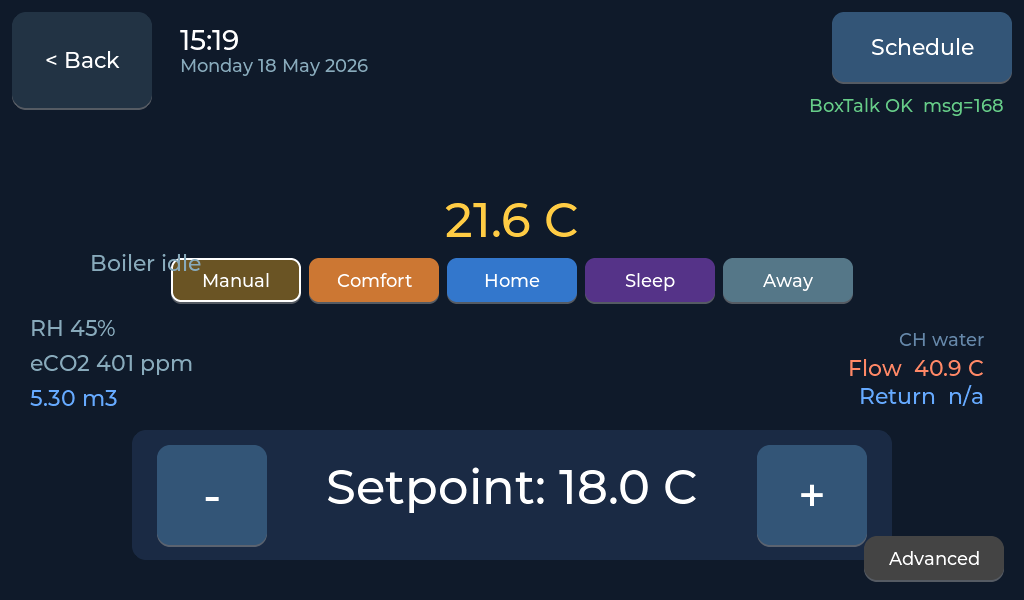
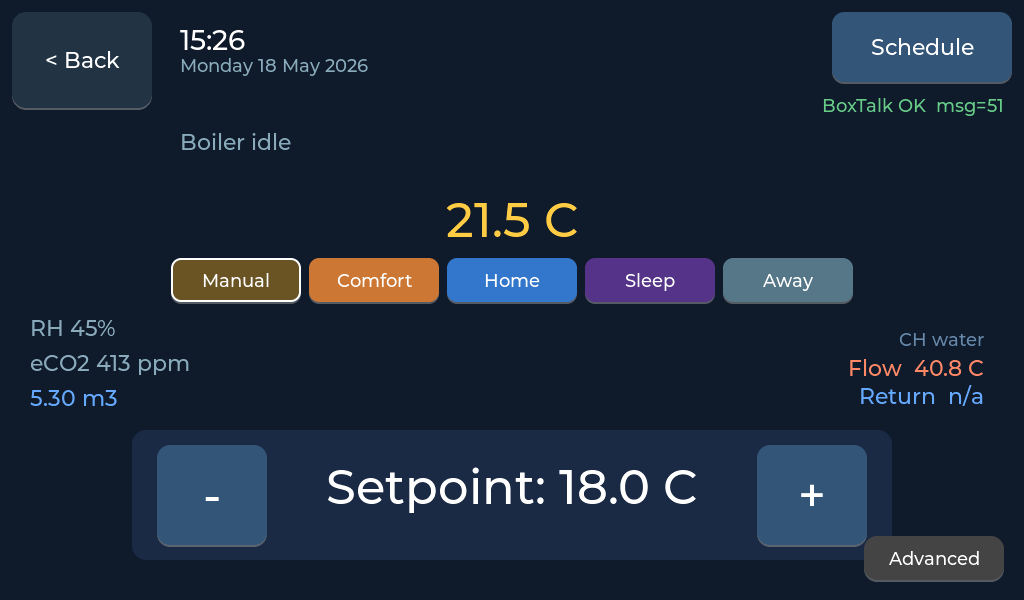
Heater-detail: move "Boiler idle" off the Manual button; nudge home city header 8 px lower
- lbl_burner was at BOTTOM_LEFT(90, -325) which put it directly behind
  the new Manual program button. Pinned to TOP_LEFT(180, 130) under
  the back button so it has its own row.
- Home forecast city header moved from y=420 to y=428 — was sitting a
  bit too tight against the curtains banner above.

Note on cumulative kWh / m3 RRD investigation (week/month/year tabs):
the elec_quantity_nt/lt, gas_quantity, water_quantity loggers ARE
bound to UUIDs and their .rra files exist on disk, but the hcb_rrd
HTTP setRrdData endpoint returns {"result":"ok"} while silently
dropping the sample — every bucket stays NaN. Direct writes via
curl to the same endpoint show the same behaviour. The Eneco daemons
that originally populated these archives (P1Adapter etc.) likely
write via the BoxTalk notify path instead of HTTP, which is what
bxt_action_SetRrdDeviceUuid hooks up for the *_flow loggers but not
the *_quantity_* ones on this install. Leaving the "no data" message
in place pending a proper investigation.

diff --git a/lvgl_ui_recovered/src/screen_thermostat.c b/lvgl_ui_recovered/src/screen_thermostat.c
@@ -335,10 +335,15 @@ lv_obj_t * screen_thermostat_create(void) {
     lv_obj_align(img_drop, LV_ALIGN_BOTTOM_LEFT, 48, -320);
     lv_obj_add_flag(img_drop, LV_OBJ_FLAG_HIDDEN);
 
+    /* "Boiler idle / Heating / Hot water" status label — was at
+     * BOTTOM_LEFT(90, -325) which collided horizontally with the new
+     * program-buttons row (the Manual button sat exactly behind the
+     * text). Pinned to the upper-left under the back button so it has
+     * its own clean strip. */
     lbl_burner = lv_label_create(scr_root);
     lv_obj_set_style_text_color(lbl_burner, lv_color_hex(0x88aabb), 0);
     lv_obj_set_style_text_font(lbl_burner, &lv_font_montserrat_22, 0);
-    lv_obj_align(lbl_burner, LV_ALIGN_BOTTOM_LEFT, 90, -325);
+    lv_obj_align(lbl_burner, LV_ALIGN_TOP_LEFT, 180, 130);
     lv_label_set_text(lbl_burner, "Boiler idle");
 
     /* CH water inlet/outlet block — right side, above the setpoint row.

diff --git a/lvgl_ui_recovered/src/screen_home.c b/lvgl_ui_recovered/src/screen_home.c
@@ -1466,7 +1466,7 @@ lv_obj_t * screen_home_create(void) {
     lv_obj_set_style_text_color(lbl_forecast_city, lv_color_hex(COL_TEXT_HI), 0);
     lv_obj_set_style_text_font(lbl_forecast_city, &lv_font_montserrat_18, 0);
     lv_label_set_text(lbl_forecast_city, settings.weather_location);
-    lv_obj_align(lbl_forecast_city, LV_ALIGN_TOP_LEFT, 22, 420);
+    lv_obj_align(lbl_forecast_city, LV_ALIGN_TOP_LEFT, 22, 428);
 
     /* --- Forecast band — fills the area below the upper-row tiles.
            5 day columns; each shows day label + min/max temp + a big